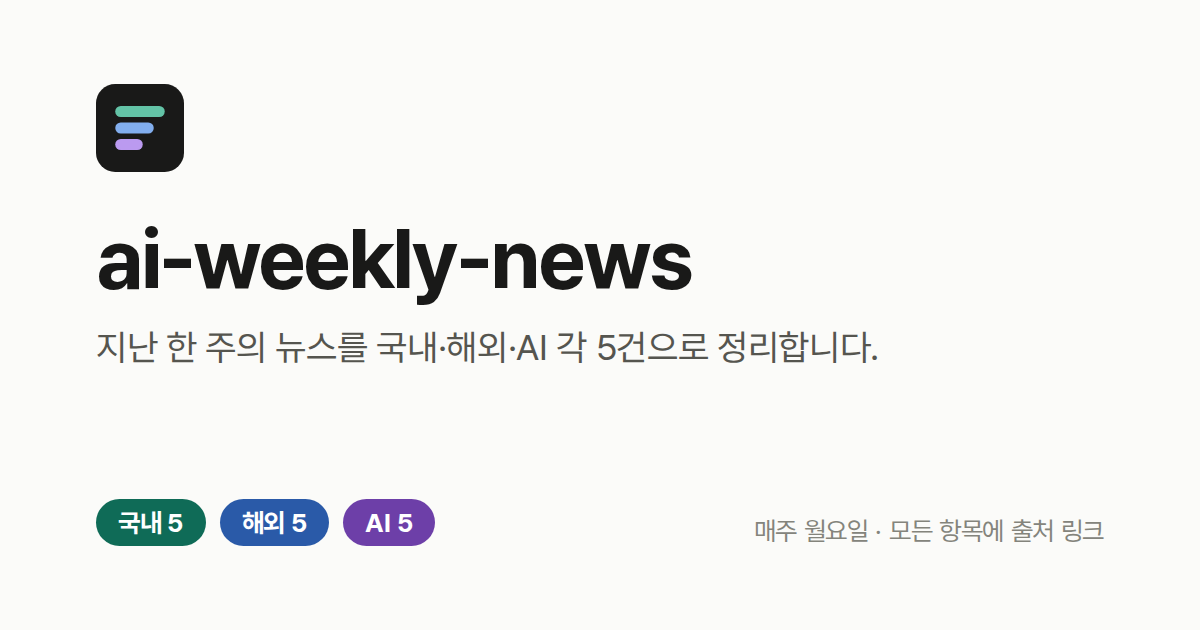
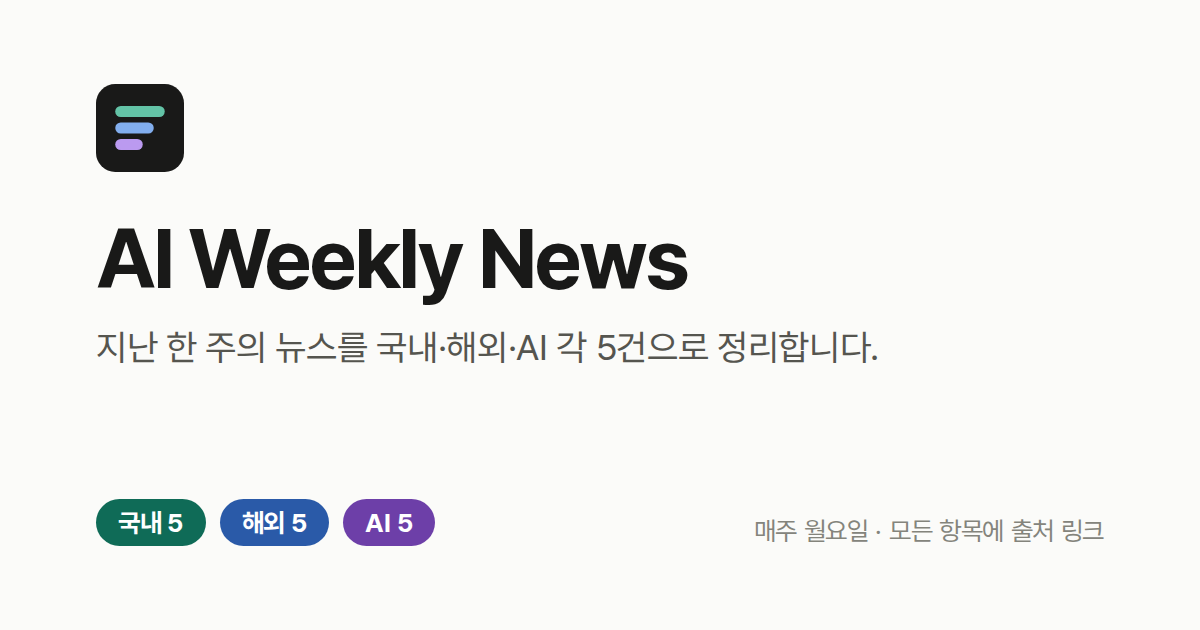
Show the site name as AI Weekly News
The address keeps ai-weekly-news. Header, tab and share titles, the
README heading and the share image now read AI Weekly News.

Claude-Session: https://claude.ai/code/session_01142VrHFHpG6pNFBJSUE5VC

Changed region(s): [[0.0617, 0.3619, 0.5858, 0.4825]]

diff --git a/scripts/og-image.html b/scripts/og-image.html
@@ -16,7 +16,7 @@
   .url { font-size:26px; color:#84847c; }
 </style></head><body>
   <svg class="mark" viewBox="0 0 32 32"><rect width="32" height="32" rx="7" fill="#191918"/><rect x="7" y="8" width="18" height="4" rx="2" fill="#63c3a6"/><rect x="7" y="14" width="14" height="4" rx="2" fill="#82aeee"/><rect x="7" y="20" width="10" height="4" rx="2" fill="#bb9af0"/></svg>
-  <h1>ai-weekly-news</h1>
+  <h1>AI Weekly News</h1>
   <p>지난 한 주의 뉴스를 국내·해외·AI 각 5건으로 정리합니다.</p>
   <div class="foot">
     <div class="rows"><span style="background:#0f6b57">국내 5</span><span style="background:#2a5aa8">해외 5</span><span style="background:#6d3fa8">AI 5</span></div>

diff --git a/docs/DECISIONS.md b/docs/DECISIONS.md
@@ -105,7 +105,7 @@
   - 2026-09-28 기준 앤트로픽 115 : Anthropic 111, 클로드 34 : Claude 52처럼 반반 섞여 한 편 안에서도 표기가 오갔다. 모델·제품 이름은 영문이 원래 이름이고 한글로 옮기면 오히려 못 알아본다.
   - 빅테크는 국내 신문에서 한글 표기가 굳었고 국내·해외 분야 문장과 이어진다.
   - 버린 것: 회사 이름까지 모두 영문. 규칙은 단순하지만 국내·해외 분야가 한국 신문처럼 읽히지 않는다.
-- **발행물 주소와 항목 앵커 규약은 바꾸지 않는다.** 사이트 이름 `ai-weekly-news` 도 그대로 둔다.
+- **발행물 주소와 항목 앵커 규약은 바꾸지 않는다.** 주소의 `ai-weekly-news` 도 그대로 둔다. 화면에 보이는 이름은 `AI Weekly News` 다(2026-10-01).
   - 이미 나간 링크와 분기호의 출처 링크가 모두 이 주소를 가리킨다.
 - **분야별 건수는 본문에서 센다.** 프론트매터에 선언하면 본문과 어긋나도 모른다. 실제로 화면 두 곳이 다른 건수를 표시했다.
 - **사이트는 AI 가 수집하고 요약한다는 것을 밝히고, 사람 검수를 주장하지 않는다.**

diff --git a/README.md b/README.md
@@ -1,4 +1,4 @@
-# ai-weekly-news
+# AI Weekly News
 
 ### Website: [yg-moon.github.io/ai-weekly-news](https://yg-moon.github.io/ai-weekly-news/)
 
